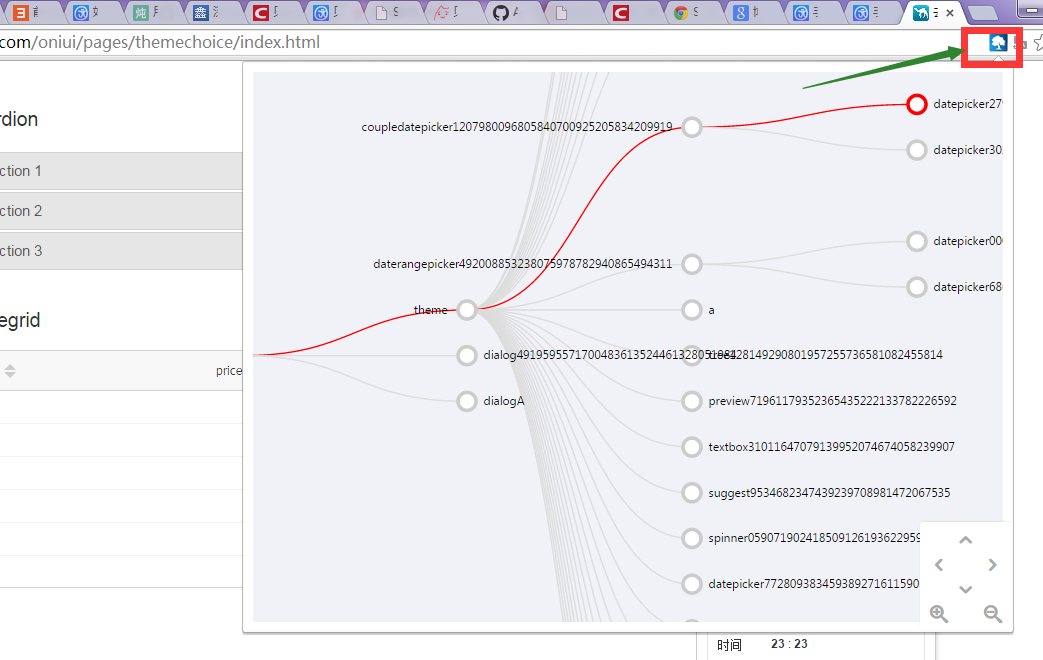
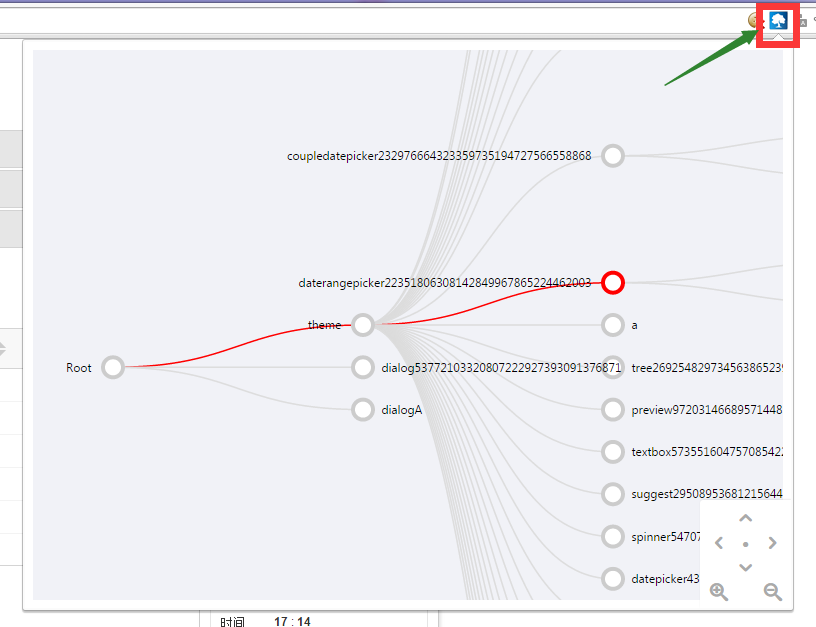
update actree

diff --git a/popup.html b/popup.html
@@ -34,7 +34,7 @@
           <div class="icon-arrow-left-5 iconWrapper" title="Move left (&larr; key)"></div>
           </td>
           <td class="navigationControl" data-direction="center">
-          <div class="iconWrapper" title="Center view"></div>
+          <div class="iconWrapper" title="Center view">&bull;</div>
           </td>
           <td class="navigationControl" data-direction="right">
           <div class="icon-arrow-right-5 iconWrapper" title="Move right (&rarr; key)"></div>
